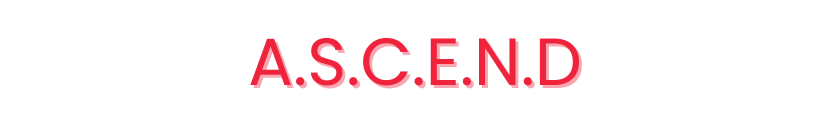
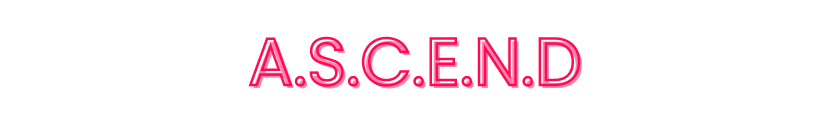
Update README and add GUI screenshot
Revised the README to improve formatting, update instructions, and replace the screenshots section with an actual GUI screenshot. Added assets/img/GUI.png and updated assets/img/Banner.png to reflect the latest application visuals.

Changed region(s): [[0.3012, 0.288, 0.7229, 0.72]]

diff --git a/README.md b/README.md
@@ -1,7 +1,8 @@
 <img src="./assets/img/Banner.png" alt="A.S.C.E.N.D. Application Screenshot"/>
 
-<h1 style="text-align: center; width: 100%;">Android System Control & ENhanced Debloater</h2>
-<div style="text-align: center">
+<h1 style="text-align: center; width: 100%;">Android System Control & ENhanced Debloater</h1>
+
+<div style="text-align: center; width: 100%;">
 
 ![GitHub release (latest by date)](https://img.shields.io/github/v/release/Md-Siam-Mia-Code/A.S.C.E.N.D.?style=for-the-badge)
 ![GitHub License](https://img.shields.io/github/license/Md-Siam-Mia-Code/A.S.C.E.N.D.?style=for-the-badge)
@@ -27,13 +28,9 @@ A.S.C.E.N.D. is a professional tool that wraps the power of ADB (Android Debug B
 
 ---
 
-## 📸 Screenshots
+## 📸 Application GUI
 
-_(This is a placeholder section. You can add updated screenshots of the new UI here.)_
-
-|      Dashboard       | Command Deck Debloater |
-| :------------------: | :--------------------: |
-| _Image of Dashboard_ |  _Image of Debloater_  |
+<img src="./assets/img/GUI.png" alt="A.S.C.E.N.D. GUI Screenshot"/>
 
 ---
 
@@ -43,18 +40,18 @@ To allow A.S.C.E.N.D. to connect to your device, you must enable USB Debugging.
 
 1. **Enable Developer Options:**
 
-    - Go to `Settings` > `About phone`.
-    - Tap on `Build number` 7 times until you see a "You are now a developer!" message.
+   - Go to `Settings` > `About phone`.
+   - Tap on `Build number` 7 times until you see a "You are now a developer!" message.
 
 2. **Enable USB Debugging:**
 
-    - Go to `Settings` > `System` > `Developer options`.
-    - Scroll down and enable the `USB debugging` toggle.
+   - Go to `Settings` > `System` > `Developer options`.
+   - Scroll down and enable the `USB debugging` toggle.
 
 3. **Authorize Your Computer:**
-    - Connect your device to your computer via USB.
-    - A prompt will appear on your device asking to "Allow USB debugging?".
-    - Check the "Always allow from this computer" box and tap "Allow".
+   - Connect your device to your computer via USB.
+   - A prompt will appear on your device asking to "Allow USB debugging?".
+   - Check the "Always allow from this computer" box and tap "Allow".
 
 ---
 
@@ -80,7 +77,7 @@ Want to contribute or build your own version?
 
 ```bash
 # 1. Clone the repository
-git clone https://github.com/Md-Siam-Mia-Code/A.S.C.E.N.D..git
+git clone https://github.com/Md-Siam-Mia-Code/A.S.C.E.N.D.git
 
 # 2. Navigate into the project directory
 cd A.S.C.E.N.D
